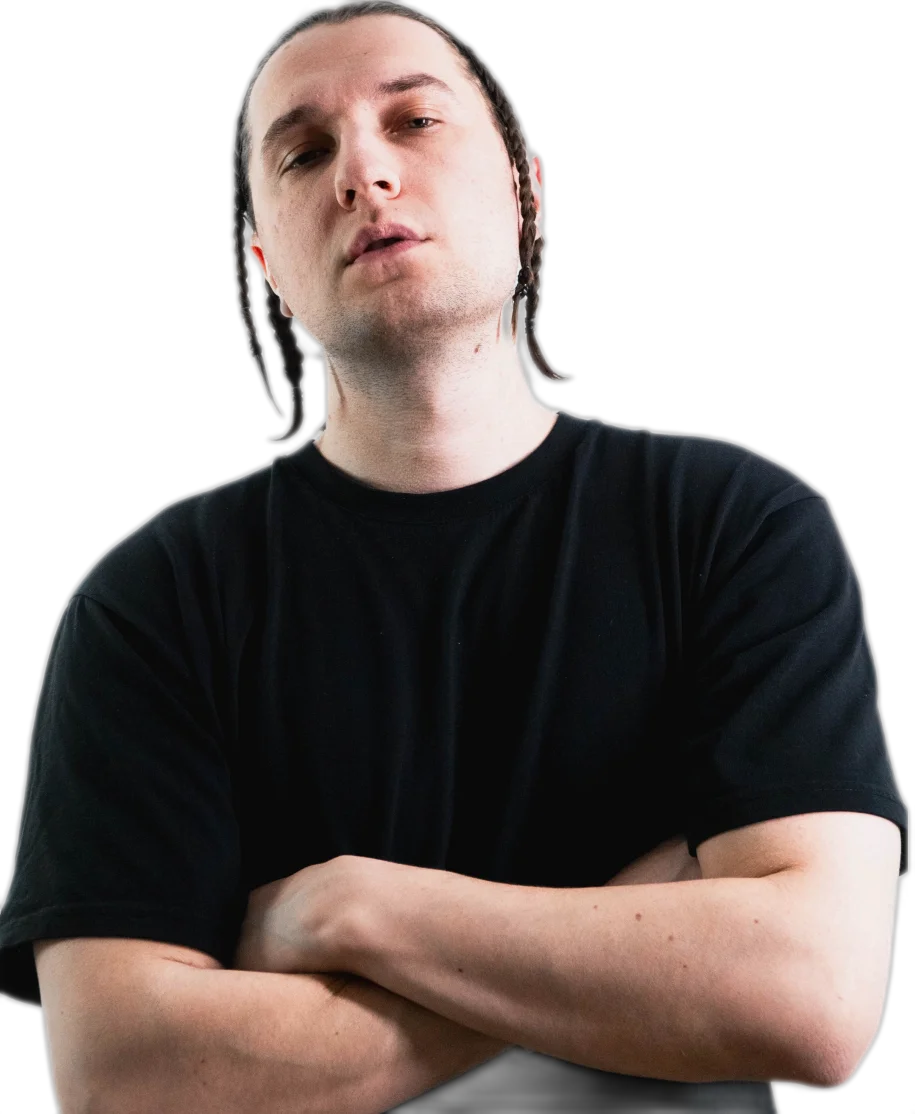
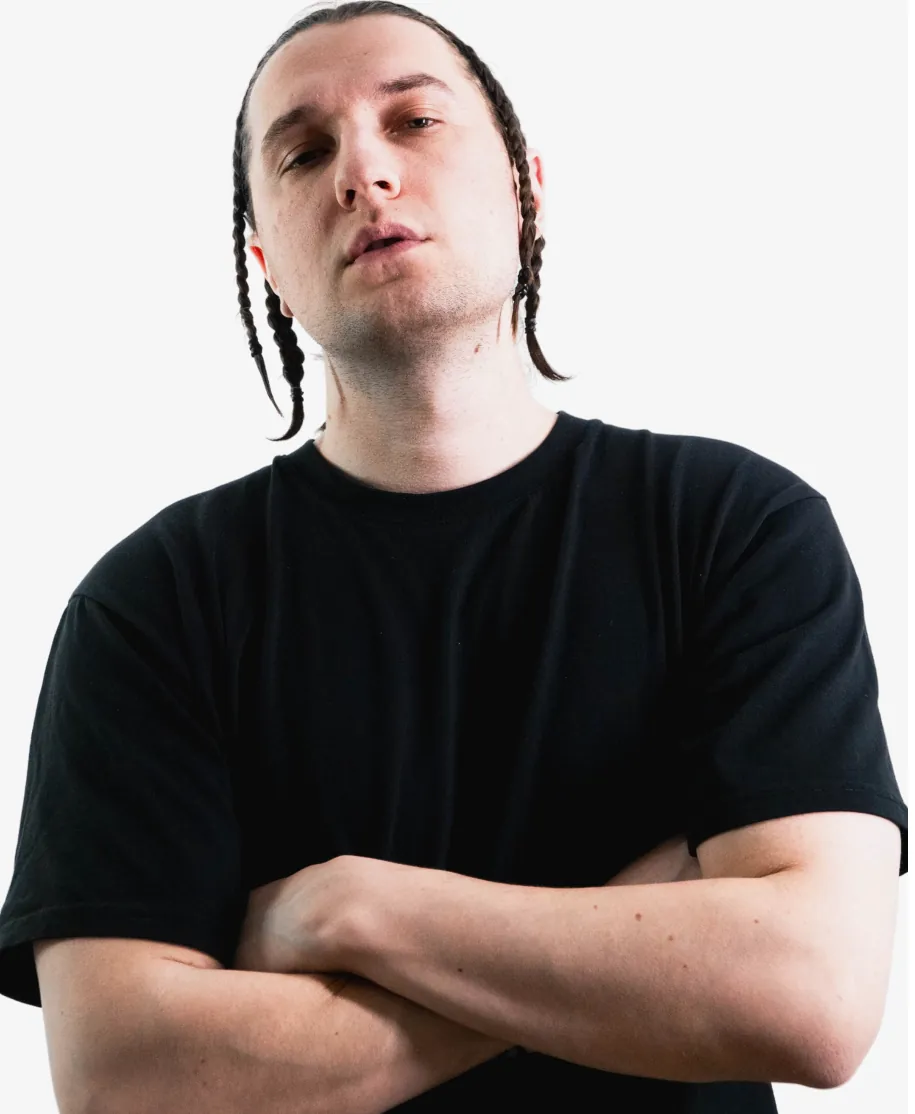
Откат: статичная серая панель без заливки цветом, портрет с оригинальным фоном

diff --git a/src/components/Sidebar.tsx b/src/components/Sidebar.tsx
@@ -1,70 +1,37 @@
 import { useState } from 'react'
-import { AnimatePresence, m } from 'framer-motion'
+import { m } from 'framer-motion'
 import { profile } from '../data'
-import { sectionThemes } from '../useActiveSection'
 import portrait from '../assets/portrait.webp'
 
-export default function Sidebar({ active }: { active: string }) {
+export default function Sidebar() {
   const [photoLoaded, setPhotoLoaded] = useState(false)
-  const theme = sectionThemes[active] ?? sectionThemes.about
-  // Базовый слой держит предыдущий цвет, пока новый заливает панель волной
-  const [baseBg, setBaseBg] = useState(theme.bg)
 
   return (
-    <aside className="relative flex flex-col overflow-hidden lg:fixed lg:inset-y-0 lg:left-0 lg:w-[340px] xl:w-[400px]">
-      {/* Заливка настроения кейса: новый цвет расходится «чернильной каплей» из нижнего угла */}
-      <div className="absolute inset-0" style={{ background: baseBg }} aria-hidden />
-      <div className="absolute inset-0 overflow-hidden" aria-hidden>
-        <AnimatePresence>
-          <m.div
-            key={active}
-            className="absolute size-[3000px] rounded-full"
-            style={{ background: theme.bg, left: '18%', bottom: '4%' }}
-            initial={{ scale: 0, x: '-50%', y: '50%' }}
-            animate={{ scale: 1, x: '-50%', y: '50%' }}
-            exit={{ opacity: 1 }}
-            transition={{ duration: 1.1, ease: [0.22, 1, 0.36, 1] }}
-            onAnimationComplete={() => setBaseBg(theme.bg)}
-          />
-        </AnimatePresence>
-      </div>
-
+    <aside className="bg-panel flex flex-col lg:fixed lg:inset-y-0 lg:left-0 lg:w-[340px] xl:w-[400px]">
       <m.div
         initial={{ opacity: 0, y: 16 }}
         animate={{ opacity: 1, y: 0 }}
         transition={{ duration: 0.6, ease: 'easeOut' }}
-        className="relative z-10 flex flex-col gap-5 px-7 pt-8 pb-6"
+        className="flex flex-col gap-5 px-7 pt-8 pb-6"
       >
         <div className="flex flex-wrap gap-2">
           {profile.badges.map((b) => (
             <span
               key={b}
-              className={`glass-chip rounded-full px-3.5 py-1.5 text-xs font-normal transition-colors duration-700 ${
-                theme.dark ? 'text-ink' : 'text-ink-soft'
-              }`}
+              className="glass-chip rounded-full px-3.5 py-1.5 text-xs font-normal text-ink-soft"
             >
               {b}
             </span>
           ))}
         </div>
 
-        <h1
-          className={`text-[28px] leading-tight font-normal tracking-tight transition-colors duration-700 xl:text-[32px] ${
-            theme.dark ? 'text-white' : 'text-ink'
-          }`}
-        >
+        <h1 className="text-[28px] leading-tight font-normal tracking-tight xl:text-[32px]">
           {profile.role}
           <br />
           {profile.grade}
         </h1>
 
-        <p
-          className={`text-sm leading-relaxed transition-colors duration-700 ${
-            theme.dark ? 'text-white/70' : 'text-ink-soft'
-          }`}
-        >
-          {profile.intro}
-        </p>
+        <p className="text-sm leading-relaxed text-ink-soft">{profile.intro}</p>
 
         <div className="flex gap-2.5">
           <a
@@ -97,7 +64,7 @@ export default function Sidebar({ active }: { active: string }) {
         initial={{ opacity: 0 }}
         animate={{ opacity: 1 }}
         transition={{ duration: 0.8, delay: 0.2 }}
-        className="relative z-10 mt-auto min-h-0 flex-1"
+        className="relative mt-auto min-h-0 flex-1"
       >
         {!photoLoaded && (
           <div className="skeleton absolute inset-0 max-h-[420px] lg:max-h-none" aria-hidden />

diff --git a/src/useActiveSection.ts b/src/useActiveSection.ts
@@ -25,12 +25,3 @@ export function useActiveSection() {
 
   return active
 }
-
-// Настроение кейса: цвет левой панели + тёмная/светлая тема текста
-export const sectionThemes: Record<string, { bg: string; dark?: boolean }> = {
-  ama: { bg: '#161618', dark: true }, // чёрный люкс
-  'it-kontakt': { bg: '#e9edf4' }, // холодный финтех
-  rosbank: { bg: '#f6edef' }, // розоватый, в тон бренда
-  health: { bg: '#f7f0e6' }, // тёплое здоровье
-  about: { bg: '#f4f3f1' }, // нейтральный
-}

diff --git a/src/App.tsx b/src/App.tsx
@@ -10,7 +10,7 @@ export default function App() {
   const active = useActiveSection()
   return (
     <div>
-      <Sidebar active={active} />
+      <Sidebar />
       <main className="lg:ml-[340px] xl:ml-[400px]">
         <div className="mx-auto max-w-4xl space-y-16 px-6 pt-10 pb-32 sm:px-10">
           {cases.map((study) => (